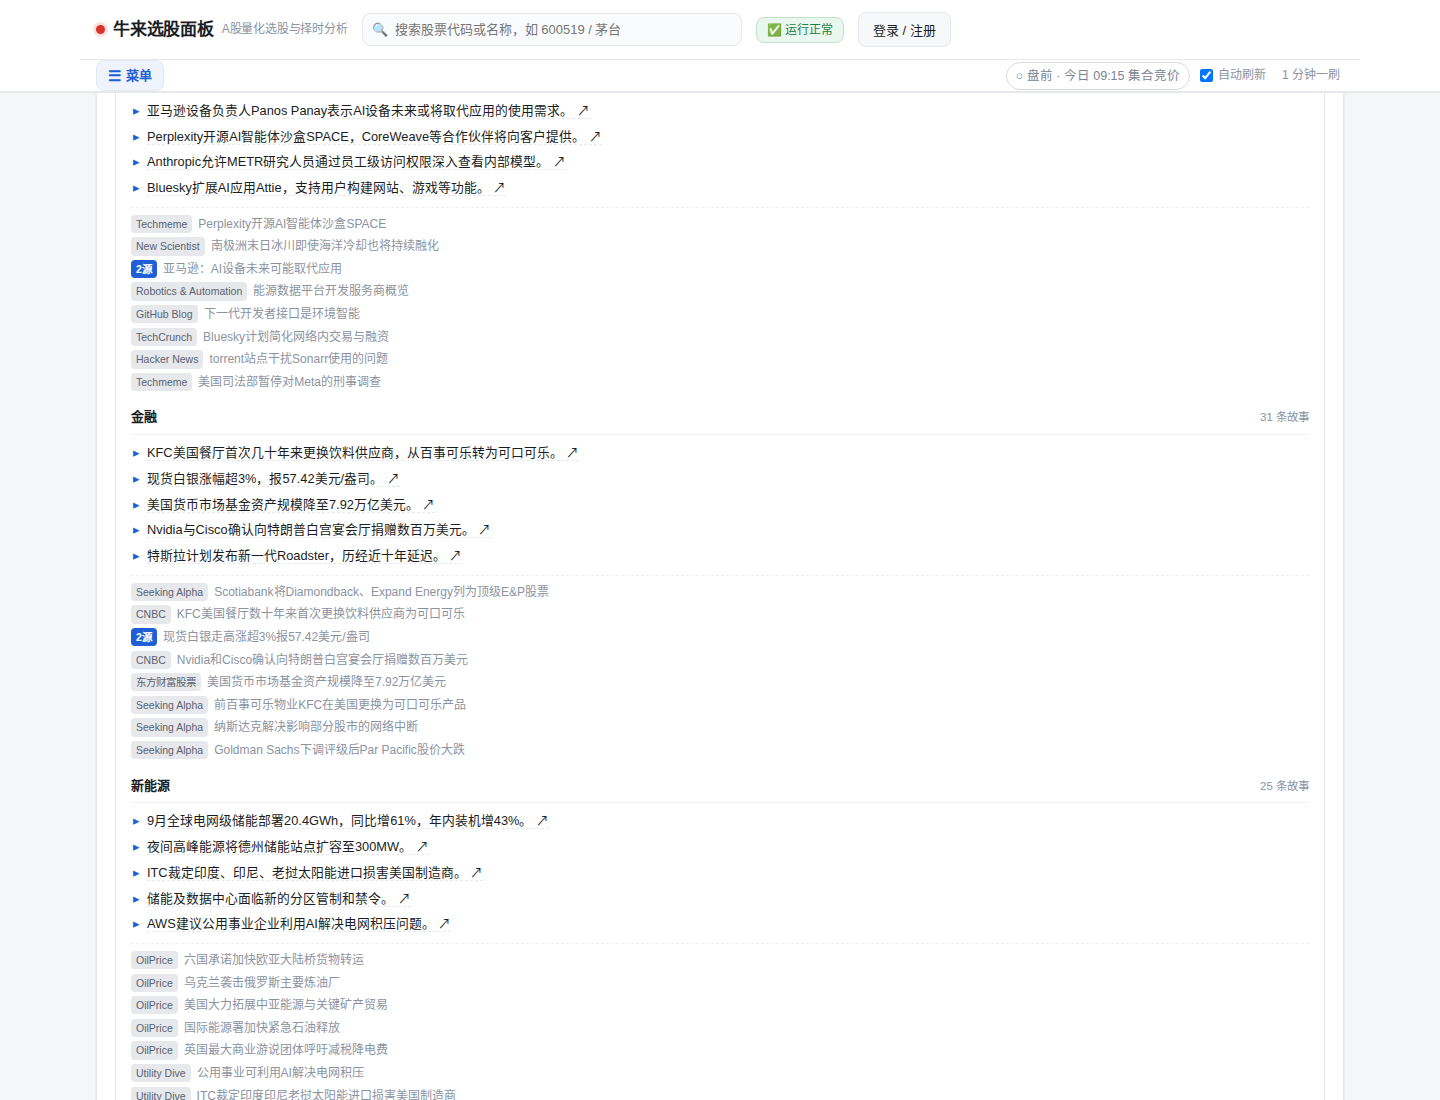
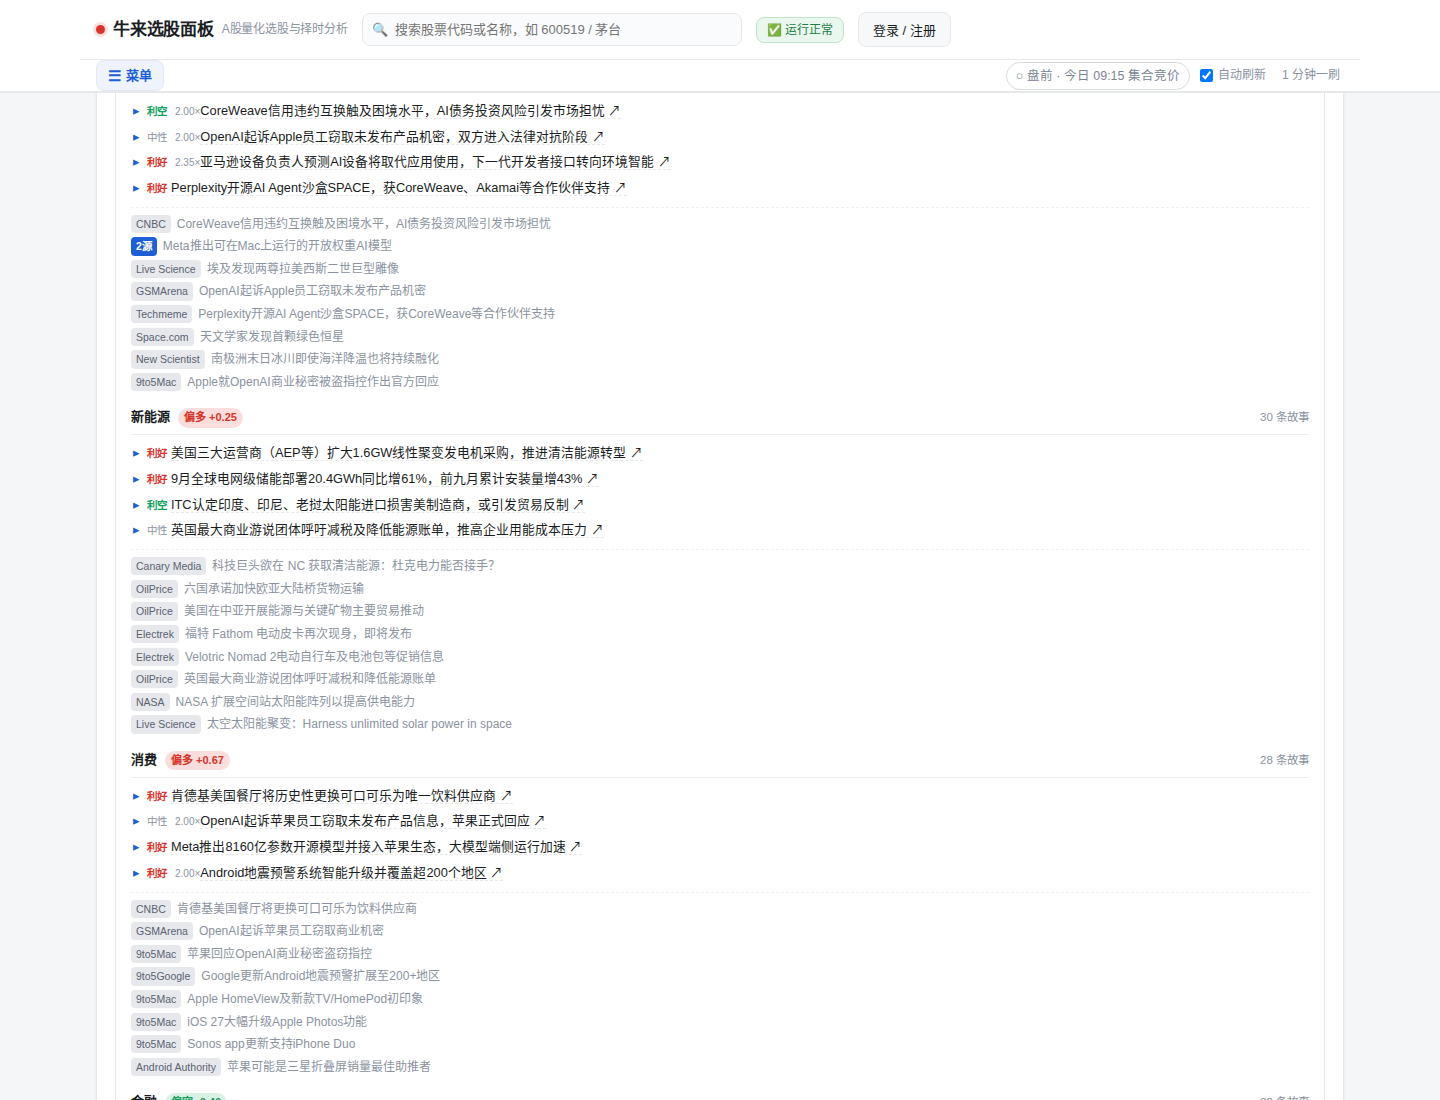
#226 全球领先信号补方向判定 + 修板块归因错配
用户两个质疑的落地：①「怎么不合并进板块舆情」②「也看不出利好利空」。
本轮先修归因（不然方向是给错内容打分），再上方向判定。

板块归因改「内容优先于源的赛道」（server/global_signal.py aggregate）：
  源级 track 只是粗先验，实测两例错归——「乌克兰袭击俄罗斯炼油厂」被
  energy→新能源 收下（应为能源）、「NASA 发射卡西尼号」被 space→军工
  收下（天文科普，非军工）。改为先调 sector_sentiment.map_sectors 扫标题
  （已校准的中英词表 + 词边界 + 散归收敛，直接复用不重造），扫不到才回落
  TRACK_TO_SECTOR；命中多板块时都进（同 sector_sentiment.aggregate 约定）。
  顺手删掉 space→军工 映射——sector_sentiment 词表明文删过「商业航天/
  卫星：品类词不是催化剂」，两个模块原本自相矛盾。
  实测：板块 8→12，军工故事数 14→1（NASA 灌水止住），能源/通信独立成板。

方向判定用 LLM 不用词表（实测证伪，非偏好）：
  · 英文词表 × 英文标题  命中 1.6%
  · 中文词表 × 已翻标题  命中 2.4%，且「司法部暂停对 Meta 调查」被判利空（方向反）
  · 中文词表 × LLM 要点  命中 10.8%，但 89% 无方向
  三条都低于 20% 门禁，词表代码已删（gen/verify 工具一并删）。
  改为 LLM 在既有调用里顺手输出 dir ∈ pos/neg/neu：翻译本来就要做，
  输入零增长、输出 +27%（实测约 18k token/日，Agnes 免费档零成本）。
  判据写死为产业基本面（订单/产能/价格/政策/监管），拿不准一律 neu。
  截断容错正则同步认 dir，缺省 neu。

板块净方向 net = (Σw(pos) − Σw(neg)) / Σw，w = 要点 refs 指向故事的
src_weight 和——多源共识权重与方向判定解耦，w>1 的要点前端标 1.55×。
max_tokens 1500→2200：加 dir 后输出变长，实测 12 板块里 2 个要点归零；
max_tokens 是上限不是预留，调高零成本。

前端：要点前加利好/利空/中性色标（红涨绿跌），板块头加净方向徽标，
footer 说明 AI 判定口径。

验证：selfcheck 24→33 项全绿（含 3 条归因回归断言 + 6 条 _net_of 断言）；
e2e_global_signal 14→18 项全过（新增方向徽标渲染断言）；
回归 e2e_newbie_ai 10/10、check_newsfeed 15/15、sector_sentiment selfcheck 全绿。
真实跑 64/64 源 274 故事 12 板块 53.8s，10/12 板块有要点。

Changed region(s): [[0.0938, 0.0927, 0.4688, 1.0], [0.875, 0.68, 0.9062, 0.7418], [0.875, 0.9891, 0.9062, 1.0]]

diff --git a/web/index.html b/web/index.html
@@ -983,9 +983,19 @@ td .starbtn{font-size:16px}
 .gs-sec-h{display:flex;align-items:baseline;gap:8px;font-size:13px;font-weight:700;
   color:var(--tx);padding-bottom:6px;border-bottom:1px solid var(--line2);margin-bottom:8px}
 .gs-sec-h .gs-cnt{font-size:11.5px;font-weight:400;color:var(--tx3);margin-left:auto}
+.gs-sec-h .gs-net{font-size:11px;font-weight:700;padding:1px 6px;border-radius:20px;
+  white-space:nowrap}
+.gs-net.pos{background:color-mix(in srgb,var(--up) 16%,transparent);color:var(--up)}
+.gs-net.neg{background:color-mix(in srgb,var(--down) 16%,transparent);color:var(--down)}
+.gs-net.neu{background:var(--line);color:var(--tx3);font-weight:400}
 .gs-pt{list-style:none;font-size:12.8px;line-height:1.62;color:var(--tx2);
   padding-left:16px;position:relative;margin-bottom:5px}
 .gs-pt::before{content:'▸';position:absolute;left:2px;color:var(--accent)}
+.gs-pt .gs-dir{font-size:10.5px;font-weight:700;margin-right:4px;white-space:nowrap}
+.gs-pt .gs-dir.pos{color:var(--up)}
+.gs-pt .gs-dir.neg{color:var(--down)}
+.gs-pt .gs-dir.neu{color:var(--tx3);font-weight:400}
+.gs-pt .gs-w{font-size:10px;color:var(--tx3);margin-left:4px;white-space:nowrap}
 .gs-pt a{color:var(--tx);text-decoration:none;border-bottom:1px dashed var(--line)}
 .gs-pt a:hover{color:var(--accent);border-bottom-color:var(--accent)}
 .gs-items{margin-top:8px;border-top:1px dashed var(--line2);padding-top:7px}
@@ -6851,7 +6861,7 @@ function loadSectorNews(){
 function gsShellHtml(){
   return '<div class="gs-wrap" id="gsWrap"><div class="gs-h" id="gsHead">'
     + '<span class="gs-ic">🌐</span><span class="gs-t">全球领先信号</span>'
-    + '<span class="gs-sub">海外权威源 · 中文要点</span>'
+    + '<span class="gs-sub">海外权威源 · 中文要点 + 利好利空</span>'
     + '<span class="gs-ar">▶</span></div>'
     + '<div class="gs-b" id="gsBody"><div class="load"><span class="spin"></span>加载中…</div></div></div>';
 }
@@ -6869,12 +6879,24 @@ function loadGlobalSignals(){
     }
     var secs = (d.sectors || []).filter(function(s){ return (s.points||[]).length || (s.items||[]).length; });
     if(!secs.length){ el.innerHTML = '<div class="empty" style="padding:14px 0">今日暂无命中</div>'; return; }
+    function dirLbl(x){ return x==='pos' ? '<span class="gs-dir pos">利好</span>'
+                        : x==='neg' ? '<span class="gs-dir neg">利空</span>'
+                        : '<span class="gs-dir neu">中性</span>'; }
+    function netBadge(v){
+      var n = parseFloat(v)||0;
+      var cls = n > 0.15 ? 'pos' : (n < -0.15 ? 'neg' : 'neu');
+      var txt = cls==='pos' ? '偏多 +'+n.toFixed(2) : cls==='neg' ? '偏空 '+n.toFixed(2) : '中性';
+      return '<span class="gs-net '+cls+'" title="板块净方向 = Σw(利好) − Σw(利空) 再除以总权重；'
+        + 'w 为多源共识权重（N 家报同一条 → w=1+0.35·log₂N）">'+txt+'</span>';
+    }
     var h = '';
     secs.forEach(function(s){
       h += '<div class="gs-sec"><div class="gs-sec-h">' + esc(s.sector)
+        + netBadge(s.net)
         + '<span class="gs-cnt">' + (s.count||0) + ' 条故事</span></div>';
       (s.points || []).forEach(function(p){
-        h += '<li class="gs-pt">' + (p.url
+        var w = (p.w && p.w > 1) ? '<span class="gs-w" title="多源共识权重">'+p.w.toFixed(2)+'×</span>' : '';
+        h += '<li class="gs-pt">' + dirLbl(p.dir) + w + (p.url
           ? '<a href="' + attr(p.url) + '" target="_blank" rel="noopener">' + esc(p.t) + ' ↗</a>'
           : esc(p.t)) + '</li>';
       });
@@ -6896,7 +6918,8 @@ function loadGlobalSignals(){
     h += '<div class="gs-meta">源 ' + (m.sources_ok||0) + '/' + (m.sources_total||0)
       + ' · 故事 ' + (m.stories||0) + ' 条 · 抓取于 ' + esc(m.fetched_at||'—')
       + (m.ai ? ' · <b>AI 提炼</b>' : ' · 未启用 AI')
-      + '<br>「N源」= 有 N 家媒体在报同一条（共识级信号）；海外行业动向，非行情数据、非投资建议。</div>';
+      + '<br>「N源」= 有 N 家媒体在报同一条（共识级信号）；「利好/利空」为 AI 按产业基本面'
+      + '（订单/产能/价格/政策/监管）判定的方向，非行情数据、非投资建议。</div>';
     el.innerHTML = h;
   }).catch(function(e){
     var el2 = $('gsBody');

diff --git a/tests/e2e_global_signal.py b/tests/e2e_global_signal.py
@@ -103,6 +103,16 @@ def main():
         check("含源统计 footer", "故事" in body_txt and "抓取于" in body_txt)
         check("含「N源」共识标注或源名", ("源" in body_txt), body_txt[:60].replace("\n", " "))
 
+        # ---------- 2b. 方向判定（利好/利空） ----------
+        print("\n=== 2b. 要点方向徽标渲染 ===")
+        n_dir = pg.locator('#gsBody .gs-pt .gs-dir').count()
+        check("每条要点带方向徽标（利好/利空/中性）", n_dir == n_pt, f"{n_dir}/{n_pt}")
+        n_net = pg.locator('#gsBody .gs-sec-h .gs-net').count()
+        check("每个板块头带净方向徽标", n_net == n_sec, f"{n_net}/{n_sec}")
+        dir_txt = pg.locator('#gsBody').inner_text()
+        check("方向词出现在页面上", any(k in dir_txt for k in ("利好", "利空", "中性")))
+        check("footer 说明 AI 判定方向口径", "产业基本面" in dir_txt)
+
         # 收起验证
         pg.click('#gsHead')
         pg.wait_for_timeout(250)

diff --git a/docs/部署指南.md b/docs/部署指南.md
@@ -803,11 +803,24 @@ Token 成本与响应耗时，四层管控：
 每日 08:30（盘前，美盘隔夜消息已出完）
   fetch_all()  并发抓 64 个实测可达源（标准库 urllib+ET，零依赖）
                → 过滤近 72h + 红线词（博彩/预测市场…）
-               → URL/标题归一化 + story 合并 + 板块映射
-  digest()     每板块喂 LLM → 3~5 条中文要点（带源数上下文 + 溯源 URL）
+               → URL/标题归一化 + story 合并
+               → aggregate() 板块归因：先 map_sectors 扫标题，扫不到才回落源级赛道
+  digest()     每板块喂 LLM → 3~5 条中文要点 + 方向 + 溯源 URL
   run_daily()  落盘 data/global_signals.json（原子替换）
   ── 前端读 GET /api/newsfeed/global（只读缓存，毫秒级，不触发抓取）
 ```
+
+**板块归因：内容优先于源的赛道**。源级 track 只是粗先验——一个 energy 源既报油价也报光伏，一个 space 源既报 SpaceX 也报 NASA 天文。实测两例错归：**「乌克兰袭击俄罗斯炼油厂」被 `energy→新能源` 收下**（应为能源）、**「NASA 发射卡西尼号」被 `space→军工` 收下**（天文科普，非军工）。所以先用已校准的 `sector_sentiment.map_sectors` 扫标题（中英词表 + 词边界 + 散归收敛），扫不到才回落 `TRACK_TO_SECTOR`。命中多板块时**都进**（同 `sector_sentiment.aggregate` 的约定）——「Meta 模型跑在 Mac 上」既是科技AI 也是消费，只挑一个是拍脑袋。修完后板块从 8 个变 12 个，**军工从 14 条故事塌到 1 条**（NASA 灌水止住），能源、通信独立成板。
+
+**方向判定：LLM，不用词表**。这是实测筛出来的，不是偏好：
+
+| 方案 | 命中率 | 结论 |
+|---|---|---|
+| 英文词表 × 英文标题 | **1.6%** | LLM 凭空生成的「通稿体」词（defense budget / clinical success）匹配不上科技媒体口语体标题（Strikes / switch to / open sources） |
+| 中文词表 × 已翻中文标题 | **2.4%** | 且命中就错——「司法部**暂停**对 Meta 的刑事调查」被判利空，方向反了 |
+| 中文词表 × LLM 中文要点 | **10.8%** | 方向对，但 89% 无方向，等于没有 |
+
+词表这条路用自己的门禁（<20% 命中）证伪了，代码已删。现在 `dir`（pos/neg/neu）由 LLM 在**同一个调用**里顺手输出——翻译本来就要做，输入零增长、输出 +27%，且判据是产业基本面（订单/产能/价格/政策/监管），拿不准一律 `neu`（宁缺勿错）。板块净方向 `net = (Σw(pos) − Σw(neg)) / Σw`，`w` 为该要点 refs 指向故事的 `src_weight` 和，即**多源共识权重与方向判定解耦**。
 
 **两类信号特别处理**：
 
@@ -815,6 +828,7 @@ Token 成本与响应耗时，四层管控：
 |---|---|---|
 | **story 合并** | 同 URL 或 48h 内同标题 → 合成 1 条，记 `src_n`（几家在报） | 通讯社稿被 N 家转是同一条，不该算 N 条独立消息 |
 | **源数权重** | `w = 1 + 0.35×log2(src_n)`，亚线性：w(1)=1, w(3)=1.55, w(10)=2.16 | **线性会让 syndication 网络最大的通讯社垄断每个板块的情绪**——那是 1 个编辑决策的 N 次转载，不是 N 次独立确认 |
+| **多源共识加权** | 要点方向按 refs 的 `w` 加权聚成板块 `net`；`w>1` 的要点前端标 `1.55×` | 3 家同时在报的利好比 1 家独报更可信，但亚线性——不是 3 倍可信 |
 
 **源清单**：64 个源内嵌在代码里（2026-10-16 全量探测 73/106 可达，剔除付费墙/反爬/被墙源）。改清单有 git 历史，可追溯「哪个源什么时候被删」。
 
@@ -825,7 +839,7 @@ Token 成本与响应耗时，四层管控：
 | `TICK_GLOBAL_SIGNAL_AT` | `08:30` | 每日抓取时间（HH:MM） |
 | `TICK_GLOBAL_SIGNAL_AI` | `true` | 关掉则只抓取展示原文标题，无 Token 成本 |
 
-**边界**：抓取 64 源约 10 秒、AI 提炼约 45 秒，全部走 daemon 线程，**不占任何请求路径**；未跑过时端点返回 `ok:false`，前端显示「等待今日抓取」而非空列表；LLM 不可用自动降级为纯标题列表。
+**边界**：抓取 64 源约 10 秒、AI 提炼约 45 秒，全部走 daemon 线程，**不占任何请求路径**；未跑过时端点返回 `ok:false`，前端显示「等待今日抓取」而非空列表；LLM 不可用自动降级为纯标题列表。方向判定的 `max_tokens` 已从 1500 提到 2200——加 `dir` 字段后输出变长更容易撞上限，实测 12 个板块里有 2 个因此要点归零；`max_tokens` 是上限不是预留，调高零成本。
 
 实拍：
 

diff --git a/README.md b/README.md
@@ -141,7 +141,7 @@
 | 📊 **市场榜单** | 涨幅 / 跌幅 / 成交额 / 换手率 / 市值 / 低估值六大榜单 + 市场温度 13 维画像 + 市场宽度（涨跌家数、站上 20 日线比例、新高新低） |
 | 🐯 **龙虎榜后验** | 上榜原因 + D+1 / D+2 / D+5 / D+10 复权涨幅，把名单变成绩单 |
 | 📰 **双源快讯** | 新浪 7×24 + 同花顺双源互备，30s 缓存，重大红条标记，词典情绪自动打「看涨 / 看跌 / 中性」，关联股票可点跳个股页 |
-| 🌐 **全球领先信号** | 每日盘前抓 64 个海外权威源（半导体设备 / OpenAI / OPEC / 美联储…）聚成中文要点，挂「板块舆情」页。**story 合并**：同一通讯社稿被 N 家转只算 1 条并标「N源」（共识级信号）；源数按 `1+0.35×log2(N)` 亚线性加权——线性会让 syndication 网络最大的通讯社垄断板块情绪。要点带 ↗ 溯源原文，AI 提炼可一键关闭（关掉则只展示原文标题） |
+| 🌐 **全球领先信号** | 每日盘前抓 64 个海外权威源（半导体设备 / OpenAI / OPEC / 美联储…）聚成中文要点，挂「板块舆情」页。**板块归因内容优先**：先扫标题关键词（已校准的中英词表），扫不到才用源的赛道——实测修掉「乌克兰袭击俄炼油厂」错归新能源、「NASA 天文旧闻」错归军工，军工故事数从 14 塌到 1。**方向由 LLM 判**（利好/利空/中性，词表已实测证伪删掉）：`1.6%` 命中的英文词表匹配不上科技媒体口语体标题。**story 合并**：同一通讯社稿被 N 家转只算 1 条并标「N源」；源数按 `1+0.35×log2(N)` 亚线性加权，多源共识再乘到方向权重上。要点带 ↗ 溯源原文，AI 提炼可一键关闭 |
 | ⚖ **多股对比** | 最多 8 只同屏对比价格 / RSI / MACD / KDJ / 量比 / 估值，自动标注组内最优 / 最差；每只票附**指标多空评级徽标**（买/卖/中），「强弱速览」顶部汇总各组评级分布 |
 | ⭐ **我的自选** | 自选股分组、成本线、批量盯盘 |
 | 🧪 **选股历史存档** | 每次选股自动存档，事后回看：窗口胜率回测（09:30–09:50 买入当日收盘结算）、入选后表现、批量加自选 |
@@ -392,7 +392,7 @@ curl "http://localhost:8899/api/theme?limit=40"
 - **虚拟盘费率**：`TICK_FEE_RATE` / `TICK_STAMP_RATE` 等（仅新用户开户默认值）。
 - **舆情巡检时间**：`TICK_SECTOR_AUDIT_AT=21:00` —— 板块舆情规则每日自动巡检的触发时刻（默认 21:00，脏值回落默认）。
 - **舆情对账时间**：`TICK_SECTOR_VERIFY_AT=15:30` —— 板块舆情收盘对账的触发时刻（默认交易日 15:30；非交易日不跑，脏值回落默认）。
-- **全球信号**：`TICK_GLOBAL_SIGNAL_AT=08:30` + `TICK_GLOBAL_SIGNAL_AI=1` —— 海外源抓取时间与 AI 提炼开关（默认盘前 08:30，抓取约 10s、AI 约 45s；关掉 AI 则只抓取展示原文，零 Token 成本）。
+- **全球信号**：`TICK_GLOBAL_SIGNAL_AT=08:30` + `TICK_GLOBAL_SIGNAL_AI=1` —— 海外源抓取时间与 AI 提炼开关（默认盘前 08:30，抓取约 10s、AI 约 45s；关掉 AI 则只抓取展示原文，零 Token 成本）。AI 开时额外产出每条要点的利好/利空方向，约 +27% Token。
 - **AI 模型（可选）**：`LLM_ENABLED=true` + `LLM_BASE_URL` / `LLM_API_KEY` / `LLM_MODEL` —— 配好后启用策略解析 AI 增强与个股 AI 深度分析（后台「AI 模型」面板可测连通性）；**不配置则全部自动降级**为规则版解析 / 纯数据摘要。
 - **管理员**：`TICK_ADMIN_USERS=用户名1,用户名2` —— 显式配置后仅名单内用户为管理员；**不设则内置默认管理员账号 `admin`**（见下）。
 
